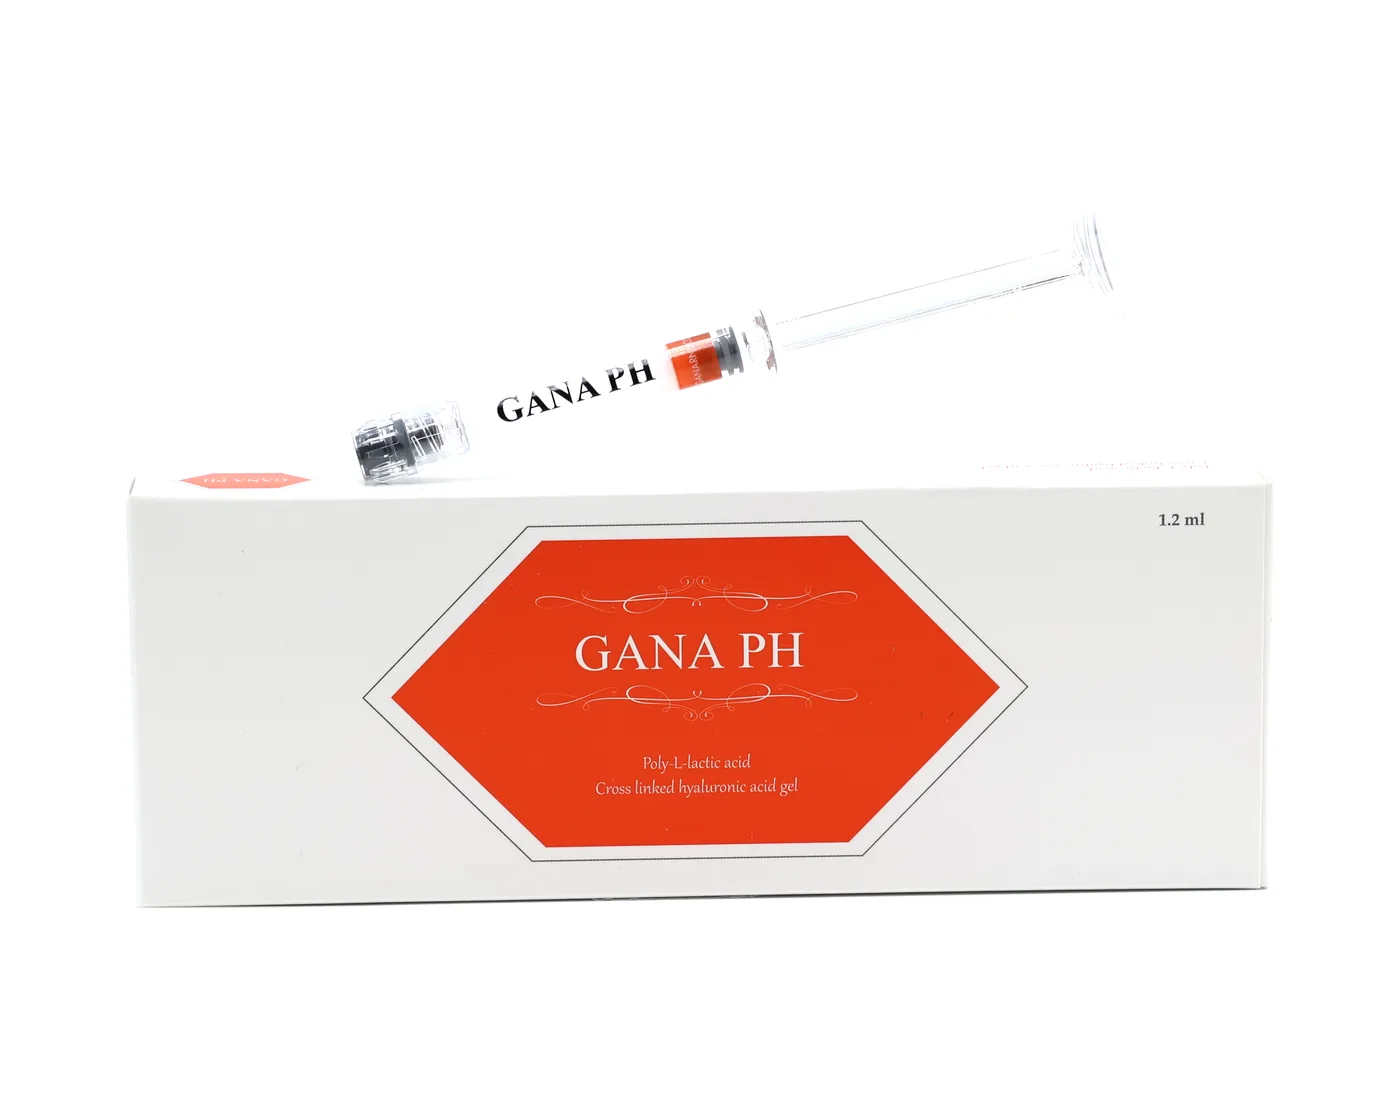
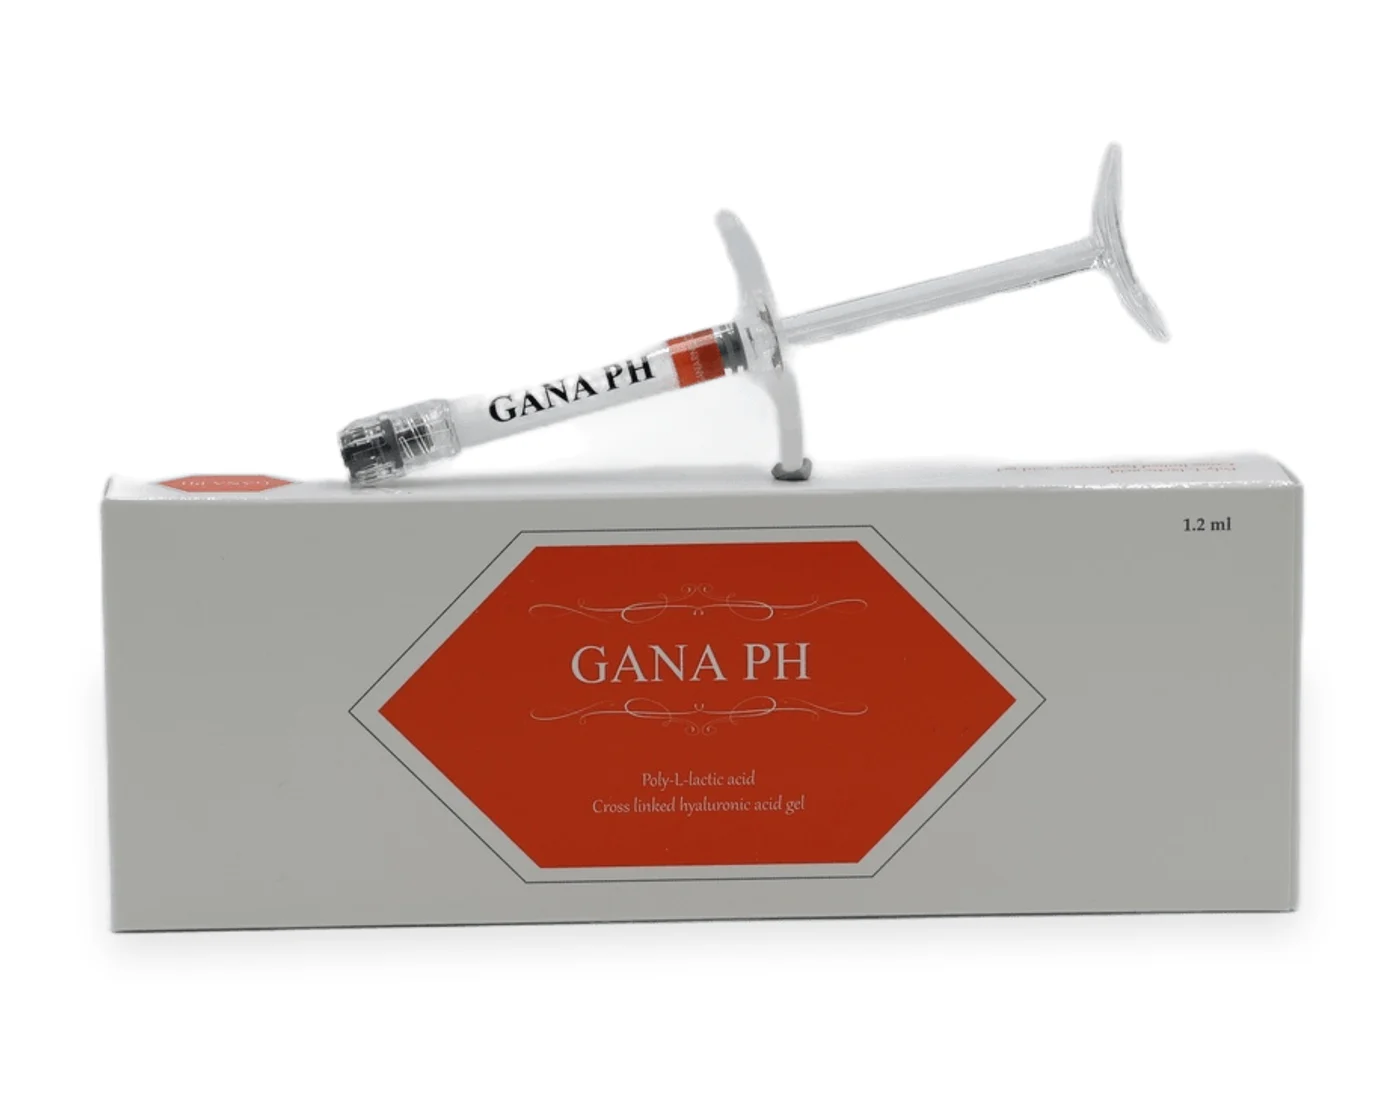
Packshots redone from the Canon originals: clear syringe barrels kept, putty removed
The earlier white-background cutouts pushed the backdrop to pure white and lost the
transparent barrels, so syringe text (e.g. "Filler X") vanished and the plunger was cropped.
Rebuilt all 14 product images with white balance from the backdrop, an IS-Net alpha
matte, white composite with a soft floor shadow and a full-product crop:
filler-x-box, gana-patch-packshot, lineup ×5, catalogue ×8 (GANA HA as an A/B/C triptych).
Pipeline and source mapping in scripts/packshot/.

diff --git a/scripts/packshot/finish.js b/scripts/packshot/finish.js
@@ -1,0 +1,35 @@
+// RGBA(모델 알파) → 흰 배경 팩샷. 인자: in.png out.(webp|png) --w --h [--pad=0.08] [--clear=x,y,w,h ...] [--clone=x,y,w,h,dx,dy ...] [--shadow=0] [--amin=0]
+// clear: 그 영역 알파 0 (점토 등 제거). clone: 영역을 (dx,dy)만큼 떨어진 픽셀(RGBA)로 덮기. 좌표는 입력 PNG 픽셀.
+const sharp = require('D:/ganarnd-rebranding/node_modules/sharp');
+const args = process.argv.slice(2); const [inp, out] = args;
+const opt = {}; const clears = [], clones = [];
+for (const a of args.filter((x) => x.startsWith('--'))) { const [k, v] = a.slice(2).split('='); if (k === 'clear') clears.push(v.split(',').map(Number)); else if (k === 'clone') clones.push(v.split(',').map(Number)); else opt[k] = v ?? '1'; }
+const OW = +(opt.w ?? 1400), OH = +(opt.h ?? 1120), PAD = +(opt.pad ?? 0.08), shadow = opt.shadow !== '0', AMIN = +(opt.amin ?? 0);
+
+(async () => {
+  const { data, info } = await sharp(inp).ensureAlpha().raw().toBuffer({ resolveWithObject: true });
+  const W = info.width, H = info.height; const px = new Uint8ClampedArray(data);
+  for (const [x0, y0, w, h, dx, dy] of clones) for (let y = y0; y < y0 + h; y++) for (let x = x0; x < x0 + w; x++) { const i = (y * W + x) * 4, j = ((y + dy) * W + x + dx) * 4; for (let c = 0; c < 4; c++) px[i + c] = px[j + c]; }
+  for (const [x0, y0, w, h] of clears) for (let y = y0; y < y0 + h; y++) for (let x = x0; x < x0 + w; x++) px[(y * W + x) * 4 + 3] = 0;
+  // 알파 정리: 아주 옅은 알파(먼지·그림자 잔재)는 0으로, 나머지는 그대로
+  const a = new Uint8Array(W * H); let x0 = W, x1 = 0, y0 = H, y1 = 0;
+  for (let k = 0; k < W * H; k++) { let v = px[k * 4 + 3]; if (v < 24) v = 0; a[k] = v; if (v > 40) { const x = k % W, y = (k - x) / W; if (x < x0) x0 = x; if (x > x1) x1 = x; if (y < y0) y0 = y; if (y > y1) y1 = y; } }
+  // 그림자: 물체 아래 35% 구간 마스크를 크게 번져 12px 아래로, 최대 12% 어둡게
+  let sh = null;
+  if (shadow) {
+    const m = new Uint8Array(W * H); const yc = y0 + (y1 - y0) * 0.65; for (let y = Math.floor(yc); y <= y1; y++) for (let x = x0; x <= x1; x++) m[y * W + x] = a[y * W + x] > 128 ? 255 : 0;
+    const r = await sharp(Buffer.from(m), { raw: { width: W, height: H, channels: 1 } }).blur(14).raw().toBuffer({ resolveWithObject: true });
+    sh = new Uint8Array(W * H); for (let k = 0; k < W * H; k++) sh[k] = r.data[k * r.info.channels];
+  }
+  const o = new Uint8ClampedArray(W * H * 3);
+  for (let k = 0; k < W * H; k++) {
+    const al = a[k] / 255; let shade = 1;
+    if (sh) { const x = k % W, y = (k - x) / W; const ys = y - 12; if (ys >= 0) shade = 1 - 0.12 * (sh[ys * W + x] / 255) * (1 - al); }
+    for (let c = 0; c < 3; c++) o[k * 3 + c] = (px[k * 4 + c] * al + 255 * (1 - al)) * shade;
+  }
+  const padX = Math.round((x1 - x0) * PAD), padY = Math.round((y1 - y0) * PAD);
+  const cx0 = Math.max(0, x0 - padX), cy0 = Math.max(0, y0 - padY), cw = Math.min(W, x1 + padX) - cx0, ch = Math.min(H, y1 + padY + 30) - cy0;
+  const img = sharp(Buffer.from(o), { raw: { width: W, height: H, channels: 3 } }).extract({ left: cx0, top: cy0, width: cw, height: ch }).resize(OW, OH, { fit: 'contain', background: '#fff' });
+  const r = await (out.endsWith('.png') ? img.png() : img.webp({ quality: 86 })).toFile(out);
+  console.log('wrote', out, r.width + 'x' + r.height, Math.round(r.size / 1024) + 'KB', 'bbox', x0, y0, x1, y1);
+})();

diff --git a/scripts/packshot/prep.js b/scripts/packshot/prep.js
@@ -1,0 +1,15 @@
+// 원본 → 화이트밸런스(네 모서리 배경 패치가 무채색이 되도록) + 2000px 축소 JPG. 인자: in out [width]
+const sharp = require('D:/ganarnd-rebranding/node_modules/sharp');
+const [, , inp, out, width] = process.argv;
+(async () => {
+  const base = sharp(inp).rotate().resize({ width: +(width || 2000) });
+  const { data, info } = await base.clone().raw().toBuffer({ resolveWithObject: true });
+  const W = info.width, H = info.height, C = info.channels;
+  const P = 110; const sum = [0, 0, 0]; let n = 0;
+  for (const [cx, cy] of [[0, 0], [W - P, 0], [0, H - P], [W - P, H - P]]) for (let y = cy; y < cy + P; y++) for (let x = cx; x < cx + P; x++) { const i = (y * W + x) * C; sum[0] += data[i]; sum[1] += data[i + 1]; sum[2] += data[i + 2]; n++; }
+  const mean = sum.map((s) => s / n); const grey = (mean[0] + mean[1] + mean[2]) / 3; const gain = mean.map((m) => grey / m);
+  const o = new Uint8ClampedArray(W * H * 3);
+  for (let k = 0; k < W * H; k++) for (let c = 0; c < 3; c++) o[k * 3 + c] = data[k * C + c] * gain[c];
+  await sharp(Buffer.from(o), { raw: { width: W, height: H, channels: 3 } }).jpeg({ quality: 95 }).toFile(out);
+  console.log('prep', out, W + 'x' + H, 'gain', gain.map((g) => g.toFixed(3)).join('/'));
+})();

diff --git a/scripts/packshot/rm.js b/scripts/packshot/rm.js
@@ -1,0 +1,11 @@
+// IS-Net 기반 배경 제거 → RGBA PNG. 인자: in.jpg out.png  (sharp와 onnxruntime의 DLL 충돌 때문에 이 프로세스에서는 sharp를 쓰지 않는다; 입력은 미리 축소한 JPG)
+const { removeBackground } = require('@imgly/background-removal-node');
+const fs = require('fs');
+const [, , inp, out] = process.argv;
+(async () => {
+  const blob = new Blob([fs.readFileSync(inp)], { type: 'image/jpeg' });
+  const t0 = Date.now();
+  const res = await removeBackground(blob, { model: 'medium', output: { format: 'image/png', quality: 1 }, debug: false });
+  fs.writeFileSync(out, Buffer.from(await res.arrayBuffer()));
+  console.log('wrote', out, Math.round((Date.now() - t0) / 1000) + 's');
+})().catch((e) => { console.error('ERR', e.message || e); process.exit(1); });

diff --git a/scripts/packshot/README.md b/scripts/packshot/README.md
@@ -1,0 +1,11 @@
+# 제품 팩샷 흰 배경 처리
+
+투명 주사기 몸통(인쇄 글자 포함)을 살리는 순서. 경계 기반 자동 누끼는 투명 부분을 날리므로 ML 알파를 쓴다.
+
+1. `node prep.js <원본.JPG> <이름>_in.jpg 2000` — 네 모서리 배경 패치가 무채색이 되도록 화이트밸런스 + 2000px 축소
+2. `node rm.js <이름>_in.jpg <이름>_rgba.png` — IS-Net(`@imgly/background-removal-node@1.4.5`) 알파. sharp와 onnxruntime이 한 프로세스에서 DLL 충돌하므로 이 단계는 sharp 없이 돈다.
+   패키지는 별도 폴더에 `npm i @imgly/background-removal-node@1.4.5` 후 그 폴더에서 실행.
+3. `node finish.js <이름>_rgba.png <출력>.webp --w=1400 --h=1120 [--clone=x,y,w,h,dx,dy] [--clear=x,y,w,h]`
+   — 흰 배경 합성, 바닥 쪽 옅은 그림자, 제품 영역 크롭. clone은 점토 같은 지지물 지우기(입력 PNG 픽셀 좌표).
+
+2026-10-19 원본 매핑(캐논 1X3A): 4554 CH · 4559 Filler X(점토 `--clone=1036,572,48,28,-70,0`) · 4560 PH · 4590 PATCH · 4593 HA body · 4601 PN · 4602 BOOSTER · 4603/4606/4607 HA B/C/A(440×1040 PNG 세 장을 1400×1120 캔버스에 20/480/940 위치로 합성).
